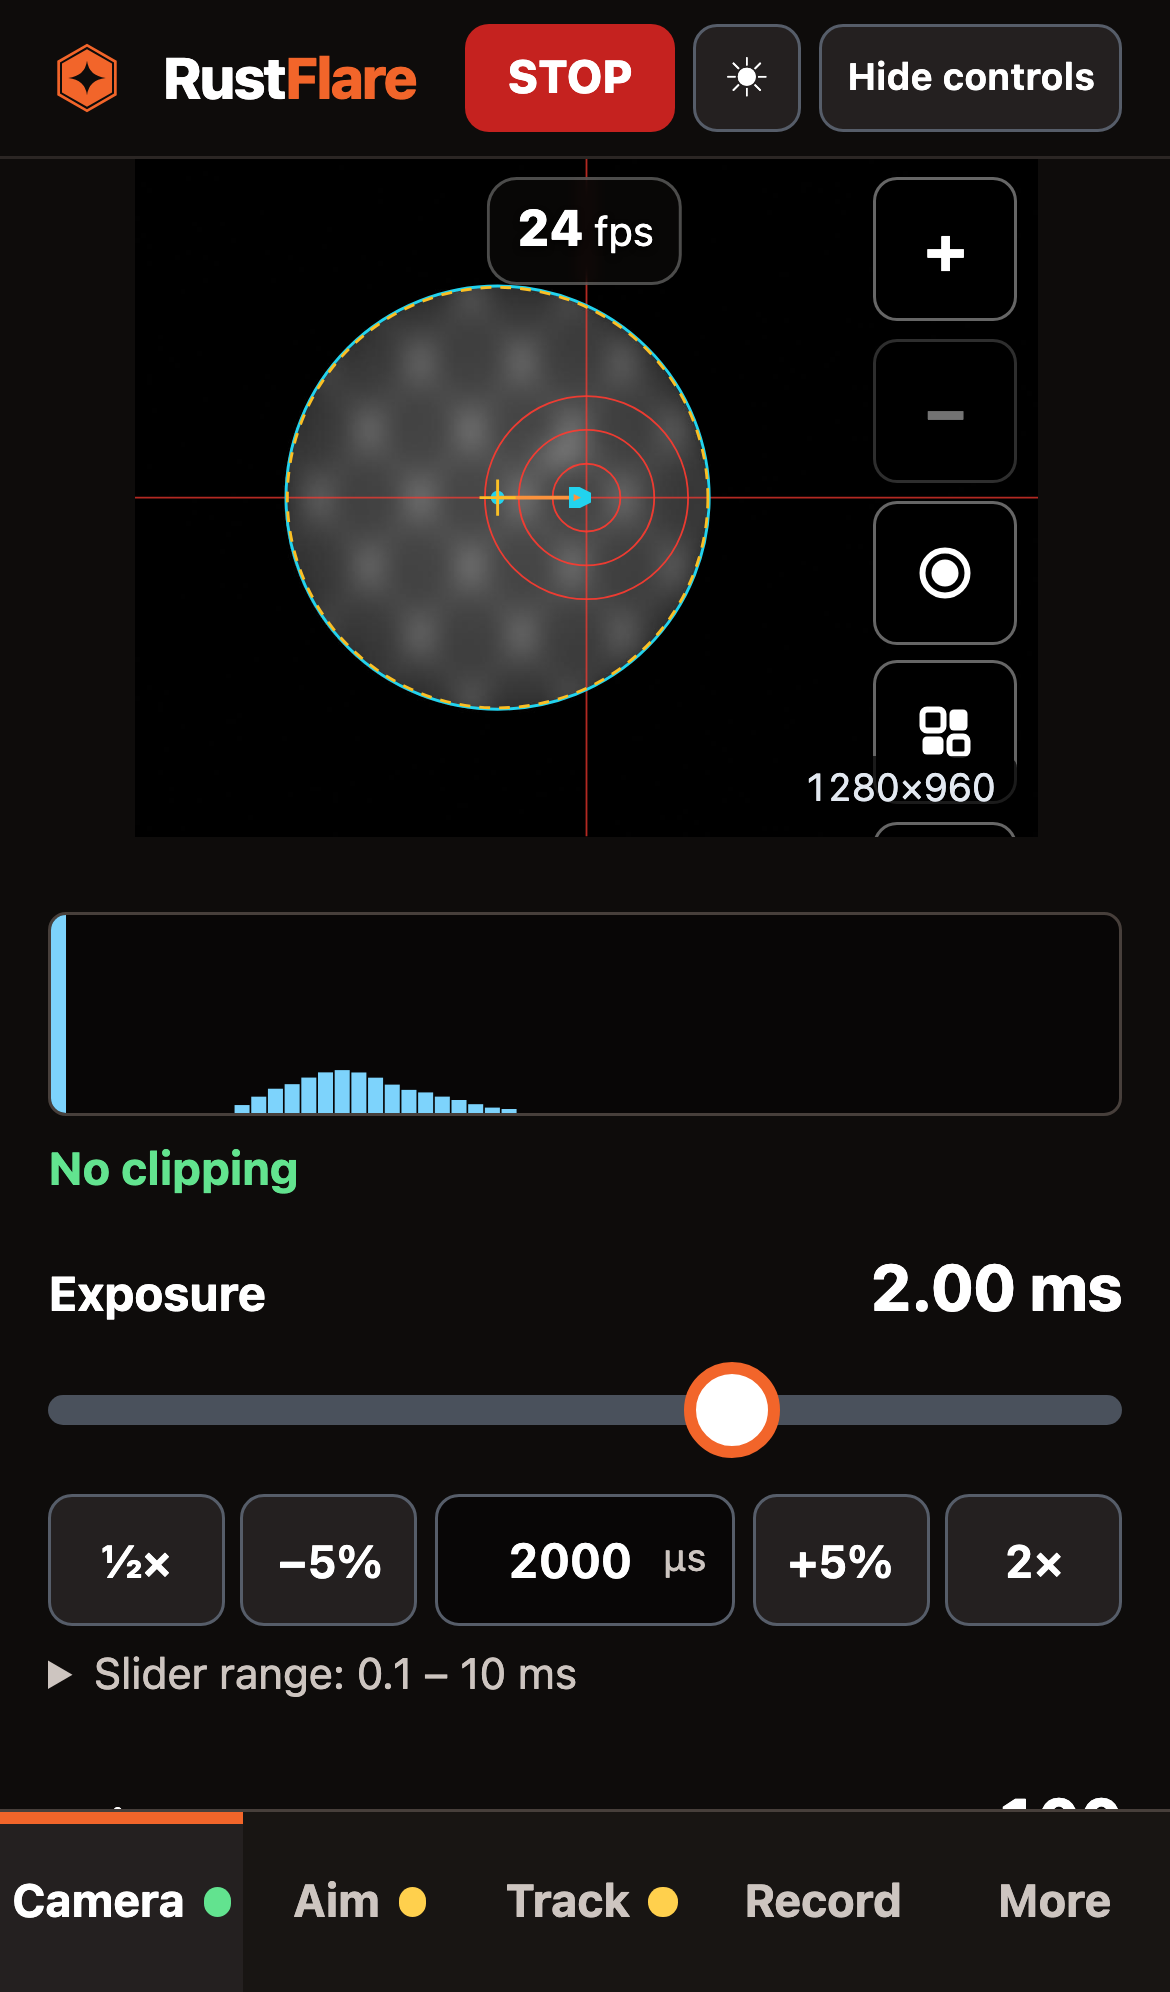
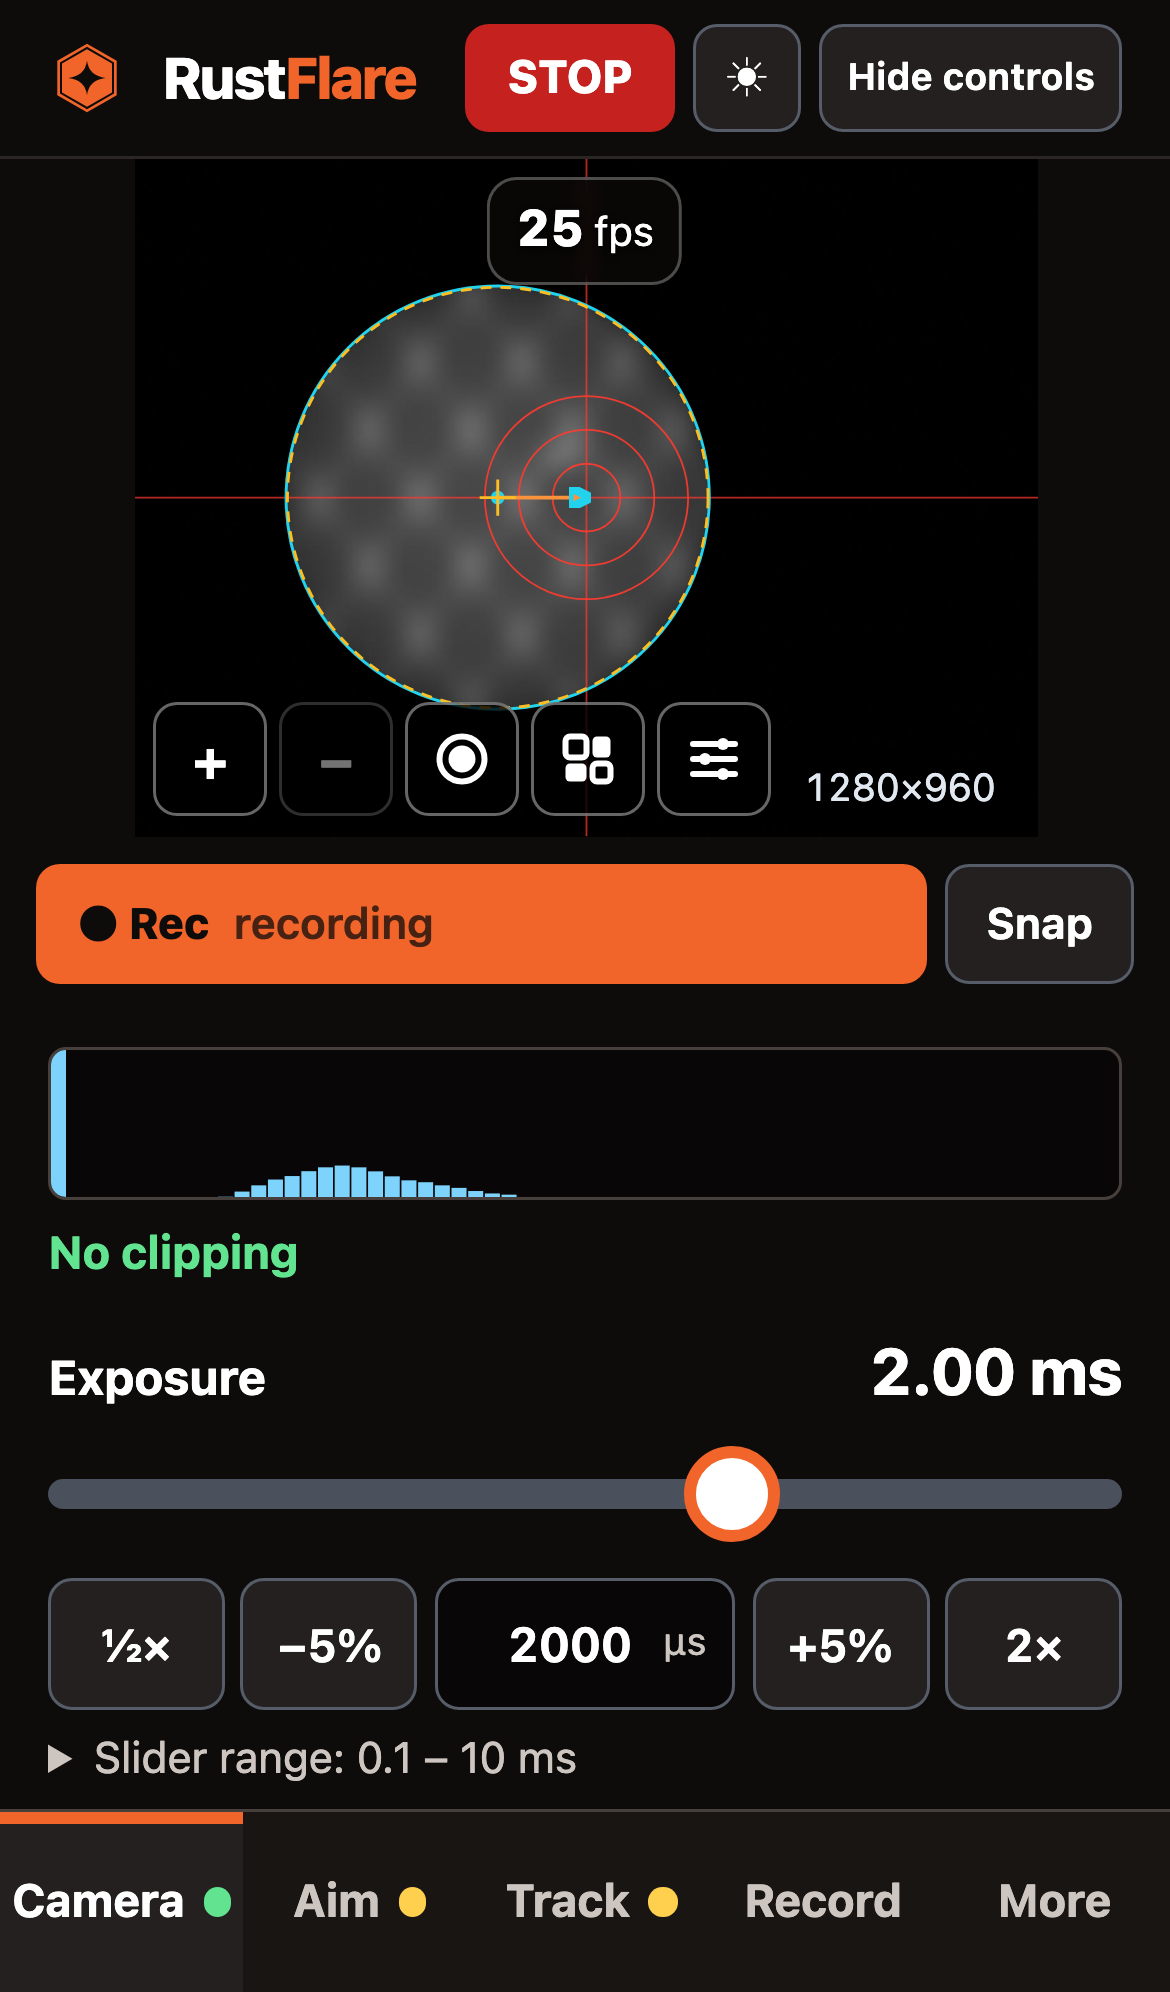
Release 0.3.1: quick Rec/Snap on every tab, tool row and Aim fixes from the critique, focus assist
Claude-Session: https://claude.ai/code/session_017ywF8xXeeShnnXZu6HPae3

diff --git a/web/src/recipe.ts b/web/src/recipe.ts
@@ -1,0 +1,38 @@
+import { CameraStatus } from './api'
+import { Lane, PRESETS, parseLanes } from './components/BracketLanes'
+import { getSetting } from './settings'
+
+export type RecordKind = 'plain' | 'prominence' | 'hdr'
+export interface Recipe {
+  kind: RecordKind; name: string; format: 'ser' | 'png' | 'fits'; onFull: 'wait' | 'drop'
+  frames: string; seconds: string; every: string; repeats: string; factor: string; mask: boolean; lanes: Lane[]
+}
+
+const n = (s: string) => (s.trim() === '' ? undefined : parseFloat(s))
+
+/** The recording recipe as last set on the Record tab. */
+export function savedRecipe(): Recipe {
+  return {
+    kind: getSetting<RecordKind>('capture.kind', 'plain'), name: getSetting('capture.name', ''), format: getSetting('capture.format', 'ser'), onFull: getSetting('capture.on_full', 'wait'),
+    frames: getSetting('capture.frames', '100'), seconds: getSetting('capture.seconds', ''), every: getSetting('capture.every', ''), repeats: getSetting('capture.bursts', ''),
+    factor: getSetting('capture.promvid_factor', '8'), mask: getSetting('capture.promvid_mask', false), lanes: parseLanes(getSetting('capture.lanes', JSON.stringify(PRESETS['Partial phase']))),
+  }
+}
+
+/** The API call that starts a recording with this recipe. */
+export function recordRequest(r: Recipe, cam: CameraStatus): { path: string; body: Record<string, unknown> } {
+  const nm = r.name.trim() || undefined
+  if (r.kind === 'plain') {
+    return r.every.trim() !== ''
+      ? { path: '/capture/bursts', body: { name: nm, frames: n(r.frames), seconds: n(r.seconds), interval_s: n(r.every), bursts: n(r.repeats), format: r.format, on_full: r.onFull } }
+      : { path: '/capture/sequence', body: { name: nm, frames: n(r.frames), seconds: n(r.seconds), format: r.format, on_full: r.onFull } }
+  }
+  const exp = cam.controls.find((x) => x.id === 'exposure_us')?.value
+  const f = parseFloat(r.factor) || 8
+  const list = r.kind === 'prominence'
+    ? [{ name: 'disc', exposure_us: exp, frames: n(r.frames), seconds: n(r.seconds) }, { name: 'prominence', exposure_us: (exp ?? 0) * f, frames: n(r.frames), seconds: n(r.seconds), mask_disc: r.mask }]
+    : r.lanes.map((l) => ({ name: l.name, exposure_us: (parseFloat(l.exposure_ms) || 0) * 1000, gain: l.gain ? parseFloat(l.gain) : undefined, frames: parseInt(l.frames, 10) || undefined }))
+  return { path: '/capture/lanes', body: { name: nm, kind: r.kind === 'hdr' ? 'hdr' : 'prominence', cycles: n(r.repeats), cycle_interval_s: n(r.every), format: r.format === 'png' ? 'ser' : r.format, on_full: r.onFull, lanes: list } }
+}
+
+export const recipeLabel = (r: Recipe) => (r.kind === 'plain' ? (r.every.trim() ? 'repeating recording' : 'recording') : r.kind === 'prominence' ? 'prominence recording' : 'HDR lanes')

diff --git a/web/src/components/AimTab.tsx b/web/src/components/AimTab.tsx
@@ -273,7 +273,7 @@ function SendHome({ status, disabled, reason }: { status: Status; disabled: bool
 }
 
 /** Slew to where the Sun is now, then switch solar tracking on. Needs a saved site and a trustworthy clock. */
-function GoToSun({ status, disabled }: { status: Status; disabled: boolean }) {
+function GoToSun({ status, disabled, openMore }: { status: Status; disabled: boolean; openMore?: (focus: string) => void }) {
   const [ask, setAsk] = useState(false)
   const { err, busy, run } = useAction()
   const clockBad = status.clock?.ntp_synchronized === false
@@ -294,7 +294,7 @@ function GoToSun({ status, disabled }: { status: Status; disabled: boolean }) {
           </div>
         </div>
       )}
-      {!status.site && <div className="hint-text">Set your site first: More, Site.</div>}
+      {!status.site && <div className="hint-text">Go to Sun needs your site. {openMore ? <button type="button" className="linklike" onClick={() => openMore('site')}>Set the site</button> : 'Set it in More, Site.'}</div>}
       {sky && <div className="hint-text">Sun now: altitude {sky.altitude_deg.toFixed(1)}°, azimuth {sky.azimuth_deg.toFixed(0)}°{sky.altitude_deg < 0 ? ' (below the horizon)' : ''}</div>}
       <ErrorLine error={err} />
     </div>
@@ -304,7 +304,7 @@ function GoToSun({ status, disabled }: { status: Status; disabled: boolean }) {
 import { MeridianFlip } from './MeridianFlip'
 
 /** Step 2: connect the mount, switch on solar tracking, slew the region of interest into view. */
-export function AimTab({ status, next }: { status: Status | null; next: () => void }) {
+export function AimTab({ status, next, openMore }: { status: Status | null; next: () => void; openMore?: (focus: string) => void }) {
   const { err, run } = useAction()
   const m = status?.mount
   const sheet = useDatasheet('mount', status, m ? shortInfo(m.info) : null)
@@ -315,7 +315,7 @@ export function AimTab({ status, next }: { status: Status | null; next: () => vo
       {parked && <div className="warn" role="alert">{m.park === 'parking' ? 'The mount is parking: motion is disabled.' : 'Parked on the mount: motion is disabled.'}</div>}
       <Offset status={status} />
       <Pad status={status} locked={parked} />
-      <GoToSun status={status} disabled={parked || !!status.goto} />
+      <GoToSun status={status} disabled={parked || !!status.goto} openMore={openMore} />
       <Disclosure title="Meridian flip">
         <MeridianFlip status={status} />
       </Disclosure>

diff --git a/web/src/components/RecordTab.tsx b/web/src/components/RecordTab.tsx
@@ -5,6 +5,7 @@ import { FileManagerButton } from './FileManager'
 import { ProminencePair } from './ProminencePair'
 import { LaneEditor, parseLanes, PRESETS } from './BracketLanes'
 import { useSetting } from '../settings'
+import { recordRequest } from '../recipe'
 
 const gb = (b: number) => (b >= 1e9 ? `${(b / 1e9).toFixed(1)} GB` : `${(b / 1e6).toFixed(0)} MB`)
 
@@ -75,16 +76,8 @@ export function RecordTab({ status, goto, openFiles }: { status: Status | null; 
   const diskNeed = burstSecs && every_s ? burstBytes / Math.max(every_s, burstSecs) / 1e6 : 0
 
   const start = () => {
-    if (kind === 'plain') {
-      return repeating
-        ? run(() => api('POST', '/capture/bursts', { name: nm, frames: n(frames), seconds: n(seconds), interval_s: n(every), bursts: n(repeats), format, on_full: onFull }))
-        : run(() => api('POST', '/capture/sequence', { name: nm, frames: n(frames), seconds: n(seconds), format, on_full: onFull }))
-    }
-    const f = parseFloat(factor) || 8
-    const list = kind === 'prominence'
-      ? [{ name: 'disc', exposure_us: exp, frames: n(frames), seconds: n(seconds) }, { name: 'prominence', exposure_us: (exp ?? 0) * f, frames: n(frames), seconds: n(seconds), mask_disc: mask }]
-      : lanes.map((l) => ({ name: l.name, exposure_us: (parseFloat(l.exposure_ms) || 0) * 1000, gain: l.gain ? parseFloat(l.gain) : undefined, frames: parseInt(l.frames, 10) || undefined }))
-    return run(() => api('POST', '/capture/lanes', { name: nm, kind: kind === 'hdr' ? 'hdr' : 'prominence', cycles: n(repeats), cycle_interval_s: n(every), format: format === 'png' ? 'ser' : format, on_full: onFull, lanes: list }))
+    const q = recordRequest({ kind, name, format, onFull, frames, seconds, every, repeats, factor, mask, lanes }, cam)
+    return run(() => api('POST', q.path, q.body))
   }
 
   return (

diff --git a/web/src/components/StatusStrip.tsx b/web/src/components/StatusStrip.tsx
@@ -1,4 +1,5 @@
-import { Status } from '../api'
+import { api, Status } from '../api'
+import { recipeLabel, recordRequest, savedRecipe } from '../recipe'
 
 export type TabId = 'camera' | 'aim' | 'track' | 'record' | 'more'
 
@@ -21,7 +22,9 @@ export function chipsFor(status: Status | null): ChipSpec[] {
   return chips
 }
 
-export function StatusStrip({ status, goto, onStop, hideRec, hide = [] }: { status: Status | null; goto: (t: TabId) => void; onStop: () => void; hideRec?: boolean; hide?: string[] }) {
+export function StatusStrip({ status, goto, onStop, hideRec, hide = [], noQuick }: { status: Status | null; goto: (t: TabId) => void; onStop: () => void; hideRec?: boolean; hide?: string[]; noQuick?: boolean }) {
+  const quick = !!status?.camera && status.capture.state === 'idle' && !hideRec && !noQuick
+  const startQuick = () => { const r = savedRecipe(); const q = recordRequest(r, status!.camera!); api('POST', q.path, q.body).catch(() => {}) }
   const chips = chipsFor(status).filter((x) => !hide.includes(x.key))
   const c = status?.capture
   const recording = !!c && c.state !== 'idle' && !hideRec
@@ -41,6 +44,12 @@ export function StatusStrip({ status, goto, onStop, hideRec, hide = [] }: { stat
             </li>
           ))}
         </ul>
+      )}
+      {quick && (
+        <div className="quick" role="group" aria-label="Quick capture">
+          <button type="button" className="quick-rec" onClick={startQuick}>● Rec <span className="muted">{recipeLabel(savedRecipe())}</span></button>
+          <button type="button" onClick={() => api('POST', '/capture/single', {}).catch(() => {})}>Snap</button>
+        </div>
       )}
       {recording && c && (
         <div className="recbar">

diff --git a/web/src/styles.css b/web/src/styles.css
@@ -470,3 +470,23 @@ button:disabled.danger { background: var(--raised); color: var(--faint); border-
 .focus-hud b { font-size: 1.6rem; line-height: 1; font-variant-numeric: tabular-nums; }
 .focus-hud span { font-size: .75rem; color: #ddd; }
 .focus-graph.small { height: auto; aspect-ratio: 300 / 90; border: 0; background: transparent; margin: 0; }
+
+/* quick capture on every tab */
+.quick { display: flex; gap: .4rem; align-items: stretch; margin-top: .3rem; }
+.quick button { min-height: 40px; font-size: .9rem; padding: 0 .8rem; }
+.quick-rec { flex: 1; font-weight: 800; background: var(--accent); color: var(--accent-ink); border-color: transparent; text-align: left; }
+.quick-rec .muted { color: inherit; opacity: .75; font-weight: 600; margin-left: .3rem; }
+.strip:has(.quick) { display: block; }
+/* live tools: one horizontal row on phones, wrapping instead of clipping */
+@media (max-width: 699px) {
+  .live-tools, .app[data-tab='camera'] .live-tools { flex-direction: row; flex-wrap: wrap; top: auto; bottom: .4rem; right: auto; left: .4rem; max-width: calc(100% - .8rem); gap: .25rem; }
+  .live-tools button, .app[data-tab='camera'] .live-tools button { width: 38px; height: 38px; font-size: 1.15rem; }
+  .hist svg { height: 3.2rem; }
+}
+.linklike { min-height: 36px; padding: 0 .6rem; font-size: .85rem; }
+
+/* small picture tabs: the tool row stays one line and small so it does not cover the Sun */
+@media (max-width: 699px) {
+  .app:not([data-tab='camera']) .live-tools { flex-wrap: nowrap; gap: .2rem; }
+  .app:not([data-tab='camera']) .live-tools button { width: 32px; height: 32px; font-size: 1rem; }
+}

diff --git a/web/src/App.tsx b/web/src/App.tsx
@@ -83,7 +83,7 @@ export function App() {
 
       <section className="view" aria-label="Live view">
         <LiveView status={status} display={display} setDisplay={setDisplay} anchorPick={anchorPick} onPicked={() => setAnchorPick(false)} onDisplay={() => openMore('display')} />
-        <StatusStrip status={status} goto={goto} onStop={stopCapture} hideRec={tab === 'record'} hide={tab === 'aim' ? ['sun'] : []} />
+        <StatusStrip status={status} goto={goto} onStop={stopCapture} hideRec={tab === 'record'} noQuick={tab === 'aim'} hide={tab === 'aim' ? ['sun'] : []} />
       </section>
 
       <nav className="tabs" role="tablist" aria-label="Session steps" onKeyDown={onKey}>
@@ -112,7 +112,7 @@ export function App() {
 
       <main ref={panelRef} className="panel" id="panel" role="tabpanel" aria-labelledby={`tab-${tab}`} tabIndex={-1}>
         {tab === 'camera' && <CameraTab status={status} next={() => goto('aim')} />}
-        {tab === 'aim' && <AimTab status={status} next={() => goto('track')} />}
+        {tab === 'aim' && <AimTab status={status} next={() => goto('track')} openMore={openMore} />}
         {tab === 'track' && <TrackTab status={status} anchorPick={anchorPick} setAnchorPick={setAnchorPick} goto={() => goto('aim')} next={() => goto('record')} />}
         {tab === 'record' && <RecordTab status={status} goto={(_t, f) => openMore(f)} openFiles={() => setFilesOpen(true)} />}
         {tab === 'more' && <MoreTab status={status} display={display} setDisplay={setDisplay} resetDisplay={resetDisplay} focus={focus} />}

diff --git a/web/e2e/ui.spec.ts b/web/e2e/ui.spec.ts
@@ -158,3 +158,13 @@ test('focus assist scores the image, falls when defocused and keeps a best marke
   await page.request.put('/api/camera/control', { data: { id: 'sim_defocus', value: 0 } })
   await page.getByRole('switch', { name: 'Focus assist' }).uncheck()
 })
+
+test('quick Rec and Snap are on the Camera tab and use the saved recipe', async ({ page }) => {
+  await page.goto('/')
+  await page.getByRole('radio', { name: 'Sequence' }).count()
+  const quick = page.getByRole('group', { name: 'Quick capture' })
+  await expect(quick).toBeVisible()
+  await quick.getByRole('button', { name: 'Snap' }).click()
+  await expect.poll(async () => (await (await page.request.get('/api/status')).json()).capture.last_file, { timeout: 10_000 }).toBeTruthy()
+  await page.request.post('/api/capture/stop')
+})

diff --git a/web/src/settings.ts b/web/src/settings.ts
@@ -24,6 +24,12 @@ function save(key: string, value: unknown) {
   timers[key] = window.setTimeout(() => { api('PUT', '/ui', { key, value }).catch(() => {}) }, 400)
 }
 
+/** Reads a saved setting outside a component (the quick Rec button reuses the Record tab's last recipe). */
+export function getSetting<T>(key: string, def: T): T {
+  const v = cache[key]
+  return v === undefined || v === null ? def : (v as T)
+}
+
 export function useSetting<T>(key: string, def: T): [T, (v: T) => void] {
   const [value, setValue] = useState<T>(() => {
     const stored = cache[key]

diff --git a/docs/project/roadmap.md b/docs/project/roadmap.md
@@ -2,7 +2,7 @@
 
 Work is tracked on the [GitHub project board](https://github.com/users/ddompe/projects/1) (one issue per item; closed = done). This page is the narrative summary.
 
-**Where we are:** version 0.3.0, the first release. It has captured real H-alpha data with the owner's Player One Apollo-M MINI and ZWO AM3 on a Raspberry Pi 5. The open items under *Before v0.3.0* are the hardware checks the owner still has to run; they are in the [hardware checklist](hardware-checklist.md).
+**Where we are:** version 0.3.1. It has captured real H-alpha data with the owner's Player One Apollo-M MINI and ZWO AM3 on a Raspberry Pi 5. The open items under *Before v0.3.0* are the hardware checks the owner still has to run; they are in the [hardware checklist](hardware-checklist.md).
 
 ## Verified on the real system (first session, 2026-11-21)
 

diff --git a/docs/guide/screen.md b/docs/guide/screen.md
@@ -38,3 +38,7 @@ A red banner shows the last problem (camera error, lost target, storage unavaila
 ## Header: STOP, theme and Hide controls
 
 With a mount connected, a red **STOP** in the header stops the mount from any tab. The sun or moon button switches between the night theme (dark, easy on dark-adapted eyes) and a **daylight theme** (light, high contrast, for bright sun on a phone screen); the image stays black in both. **Hide controls** shows the image only.
+
+## Quick capture
+
+On every tab except Aim and Record, below the picture, **● Rec** starts the recording exactly as set up on the [Record tab](record.md) (sequence, prominence or HDR lanes) and **Snap** saves a single frame. While recording, the strip shows progress and a Stop button.
